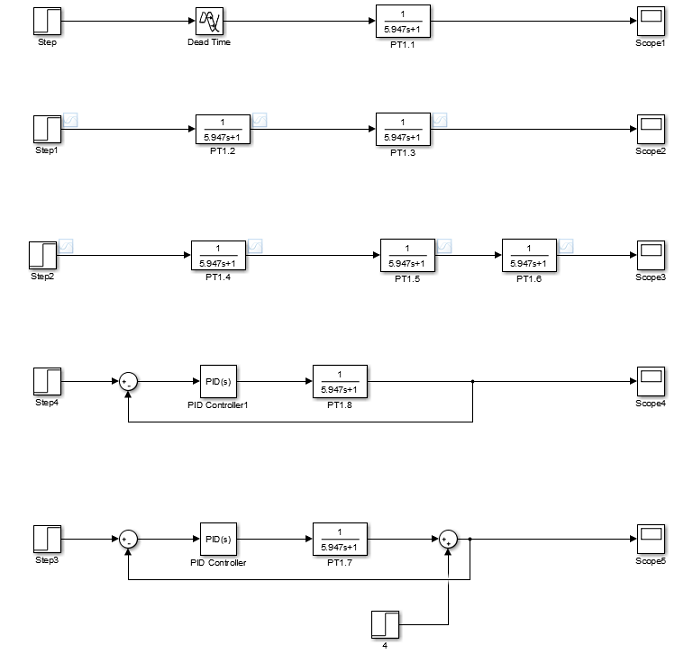
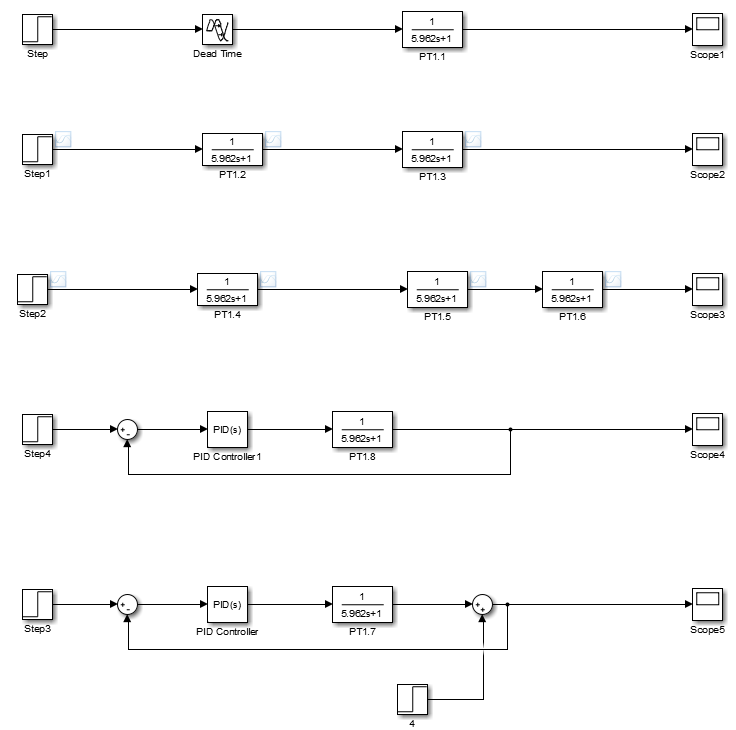
Simulink with the right numbers and text extansion of the chapter simulink

diff --git a/labor2/sections/simulations.tex b/labor2/sections/simulations.tex
@@ -39,17 +39,24 @@
 \subsection{Simulation with simulink}
 
 A simulation were done in  simulink  to  compare the tracking behavior between
-simulation and  experiment.  The best value for the $PT_{1}$ we determine were
-$5.947$ so our $PT_{1}$ element is from the form:
+simulation and  experiment. Unfortunately  the  time in the  laboratory  was  not  enough  to  finish  the exercise. So we don't had the time to analyse  the  tracking  behavior  of the electrical motor in the laboratory. However, in Simulink the tracking behavior
+were analysed and it can be seen in  Figure \ref{fig:tracking}. The best value for the $PT_{1}$ we determine were
+$5.962$, so our $PT_{1}$ element is from the form:
 
 \begin{equation}
-    G(s) = \frac{1}{5.947s+1}
+    G(s) = \frac{1}{5.962s+1}
 \end{equation}
 
-For   the   dead  time  element  we  took   the   value   $0.0750$.   In   the
+For   the   dead  time  element  we  took   the   value   $0.1655$.   In  the Figure 
 \ref{fig:simulink} there are 5 different Block diagram.  the  first  3 diagram
 represent  the  simulation  model  of  the  plant. The last two Block Diagramm
-represent an implemented PID controller  with and without a tracking behavior.
+represent an implemented PID controller with and without a tracking behavior.
+The best PID controller we obtained during the experiment have the values (Proportional $P$, Integral $I$ and Derivative $D$) :
+\begin{align*}
+    P &= 0.330 \\
+    I &= 0.660 \\
+    D &= 0.330
+\end{align*}
 
 \begin{figure}
     \centering
@@ -58,15 +65,25 @@ represent an implemented PID controller  with and without a tracking behavior.
     \label{fig:simulink}
 \end{figure}
 
-Unfortunately  the  time in the  laboratory  was  not  enough  to  finish  the
-exercise. So we don't had the time to analyse  the  tracking  behavior  of the
-electrical motor in the laboratory. However, in Simulink the tracking behavior
-were analysed and it can be seen in \ref{fig:tracking}.
+The smallest tracking behavior we obtained with the values:
+\begin{align*}
+    P &= 0.330 \\
+    I &= 0.660 \\
+    D &= 0.330
+\end{align*}
+which are the same as for the normal PID controller. In picture \ref{fig:tracking} one can see that the tracking behavior have a change of $180$ degree. That means that the electrical motor change his direction.
+
+\begin{figure}[h!]
+    \centering
+    \includegraphics[width=\linewidth]{images/slope.png}
+    \caption{The system without tracking.}
+    \label{fig:WithoutTracking}
+\end{figure}
 
 \begin{figure}[h!]
     \centering
     \includegraphics[width=\linewidth]{images/slope_tracking.png}
-    \caption{Tracking behavior of the system}
+    \caption{Tracking behavior of the system.}
     \label{fig:tracking}
 \end{figure}
 

diff --git a/labor2/matlab/system_ident_deadtime_pt1.m b/labor2/matlab/system_ident_deadtime_pt1.m
@@ -1,4 +1,4 @@
-close all, clear all;
+close all, clear all; clc
 s = tf('s');
 
 % subroutines are located in this folder
@@ -94,4 +94,3 @@ for n = 1:3
 end
 title('PID Controllers')
 legend('Ziegler-Nichols', 'Chien-Hrones-Reswick');
-
